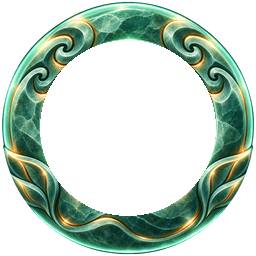
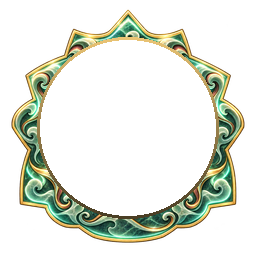
feat(map): done nodes and boss rings from the art pane
Every realm's done node is redrawn as a cleared stone, gold-rimmed with a
lit pale face and no tick, so it no longer reads as an open node; its number
takes the dark ink on that face. Every realm's guardian ring is redrawn as a
boss frame with a crest and the realm's light, around the same portrait
opening.

diff --git a/unity/Assets/ZKube/Runtime/Presentation/PageViews.Campaign.cs b/unity/Assets/ZKube/Runtime/Presentation/PageViews.Campaign.cs
@@ -179,7 +179,8 @@ namespace ZKube.Presentation
 
         // One level, in its realm's own node set. Locked: dark stone with a
         // lock. Open: the glowstone with its number. Done: its own settled
-        // stone, its stars under it. Current: larger, its cream rim, pulsing in
+        // stone, gold-rimmed and pale, its number in the dark ink and its stars
+        // under it. Current: larger, its cream rim, pulsing in
         // its breathing light (reduced motion: the light alone). The guardian,
         // the realm's boss: its portrait in its own ring, nearly twice a node,
         // in the realm's breathing glow over a wider halo, dimmed with a lock
@@ -226,7 +227,9 @@ namespace ZKube.Presentation
                     rect, hit.transform);
                 if (lit) face.gameObject.AddComponent<SkinPulse>();
                 if (open || done)
-                    ui.Label(name + " number", Number(value.Realm, trial.Level), rect, size * .37f / d, SkinTokens.Text, lit ? face.transform : hit.transform,
+                    // A done node's face is light: its number takes the dark ink.
+                    ui.Label(name + " number", Number(value.Realm, trial.Level), rect, size * .37f / d, done && !lit ? SkinTokens.TextOnPrimary : SkinTokens.Text,
+                        lit ? face.transform : hit.transform,
                         SkinUi.Type.Display).textWrappingMode = TextWrappingModes.NoWrap;
                 else Tinted(name + " lock", SkinSlots.IconLock, Scaled(rect, .46f), SkinTokens.TextMuted, hit.transform);
             }

diff --git a/unity/Assets/ZKube/Tests/PlayMode/Presentation/WireframeGeometryTests.cs b/unity/Assets/ZKube/Tests/PlayMode/Presentation/WireframeGeometryTests.cs
@@ -446,6 +446,9 @@ namespace ZKube.Tests.Presentation
                         (5, SkinSlots.MapNodeLocked), (9, SkinSlots.MapNodeLocked), (10, SkinSlots.MapNodeGuardian) })
                         Assert.AreEqual(art.SkinRealm(slot).name.Replace("(Clone)", ""), Slot(level), "Level " + level + " wears " + slot);
                     Assert.AreNotEqual(art.SkinRealm(SkinSlots.MapNodeOpen), art.SkinRealm(SkinSlots.MapNodeDone), "Done is its own piece");
+                    TMP_Text Number(int level) => root.GetComponentsInChildren<TMP_Text>().Single(text => text.name == "Trial " + level + " number");
+                    Assert.AreEqual(art.Token(SkinTokens.TextOnPrimary), Number(1).color, "A done node's number is dark on its light face");
+                    Assert.AreEqual(art.Token(SkinTokens.Text), Number(4).color, "The current node's number keeps the light ink");
                     var pulse = Face(4).GetComponent<SkinPulse>();
                     Assert.IsNotNull(pulse, "The current node pulses");
                     Assert.IsTrue(root.GetComponentsInChildren<Image>().Where(image => image.name.StartsWith("Trial ") && image.name.EndsWith(" node"))
